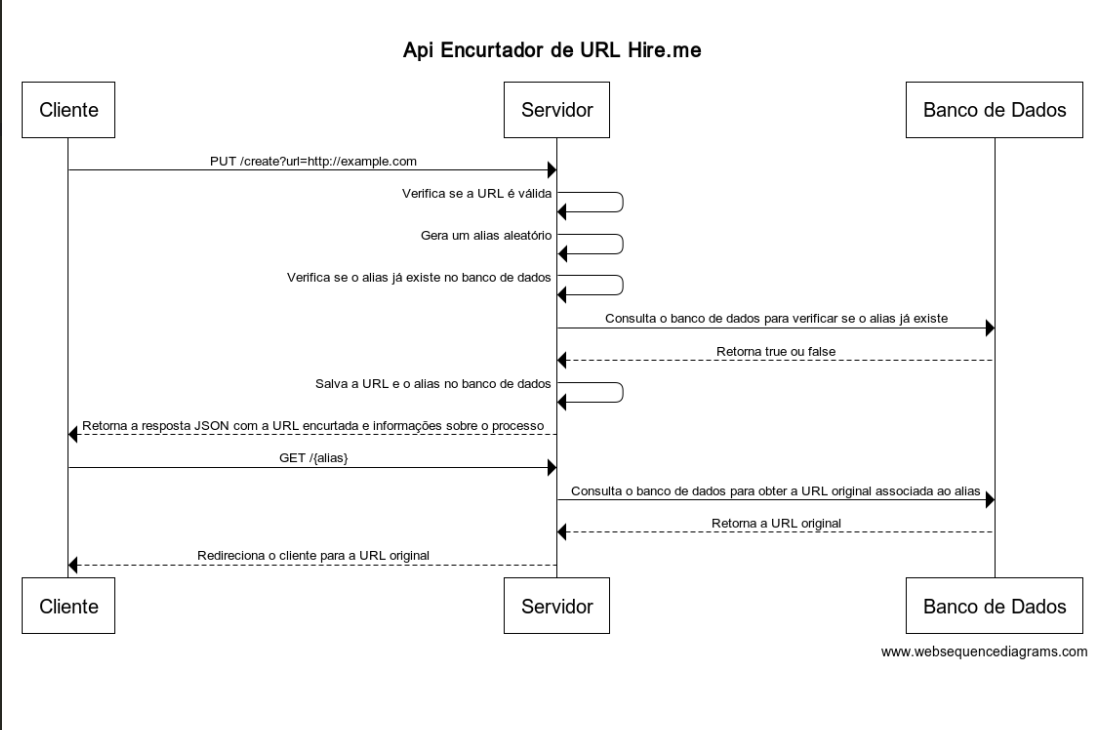
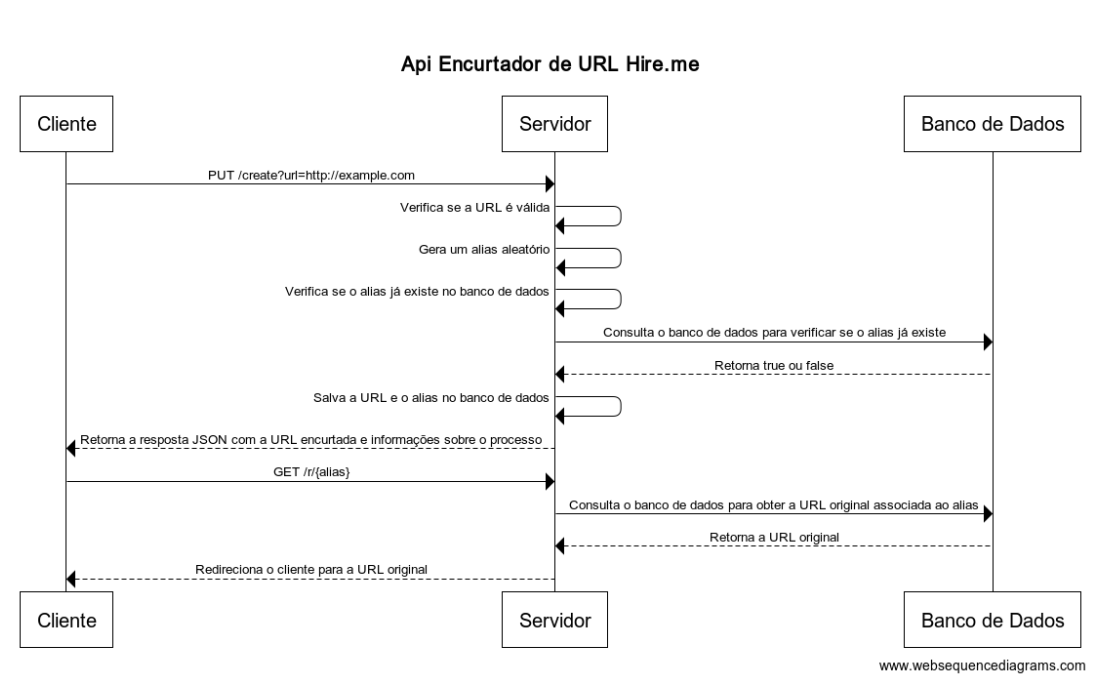
Endpoint de mais acessados

diff --git a/controllers/shorter/main.go b/controllers/shorter/main.go
@@ -11,12 +11,14 @@ import (
 
 	"go.mongodb.org/mongo-driver/bson"
 	"go.mongodb.org/mongo-driver/mongo"
+	"go.mongodb.org/mongo-driver/mongo/options"
 )
 
 // Struct para registrar as informações de URL e alias
 type Register struct {
-	Alias string `json:"alias"`
-	URL   string `json:"url"`
+	Alias   string `json:"alias"`
+	URL     string `json:"url"`
+	Acessos int    `json:"acessos"`
 }
 
 // Struct para registrar o tempo gasto na rotina
@@ -89,8 +91,9 @@ func GenerateShortURL(url, customAlias string, client *mongo.Client) ([]byte, er
 
 	// Registra a URL e o alias no banco de dados
 	register := Register{
-		Alias: alias,
-		URL:   url,
+		Alias:   alias,
+		URL:     url,
+		Acessos: 0,
 	}
 
 	if err := saveRegister(register, client); err != nil {
@@ -151,10 +154,50 @@ func RetrieveUrl(shortURL string, client *mongo.Client) ([]byte, error) {
 		return json.Marshal(errResp)
 	}
 
+	// Atualiza o valor de acessos e salva a alteração no banco de dados
+	result.Acessos++
+	update := bson.M{"$set": bson.M{"acessos": result.Acessos}}
+	_, err = collection.UpdateOne(context.Background(), filter, update)
+	if err != nil {
+		errResp := ErrorResponse{
+			Alias:       shortURL,
+			ErrCode:     "002",
+			Description: "FAILED TO UPDATE SHORTENED URL IN DATABASE",
+		}
+		return json.Marshal(errResp)
+	}
+
 	return json.Marshal(result)
 }
-
 func isValidURL(urlStr string) bool {
 	u, err := url.Parse(urlStr)
 	return err == nil && u.Scheme != "" && u.Host != ""
+}
+func TopAccess(client *mongo.Client) ([]byte, error) {
+	// Busca os registros no banco de dados, ordenando por acessos em ordem decrescente e limitando a 10
+	collection := client.Database("mydb").Collection("shorter")
+	options := options.Find().SetSort(bson.M{"acessos": -1}).SetLimit(10)
+	cursor, err := collection.Find(context.Background(), bson.M{}, options)
+	if err != nil {
+		errResp := ErrorResponse{
+			Alias:       "",
+			ErrCode:     "004",
+			Description: "DATABASE ERROR: FAILED TO RETRIEVE TOP 10 REGISTERS FROM DATABASE",
+		}
+		return json.Marshal(errResp)
+	}
+	defer cursor.Close(context.Background())
+
+	// Cria um slice com os resultados da busca
+	var results []Register
+	if err = cursor.All(context.Background(), &results); err != nil {
+		errResp := ErrorResponse{
+			Alias:       "",
+			ErrCode:     "004",
+			Description: "DATABASE ERROR: FAILED TO RETRIEVE TOP 10 REGISTERS FROM DATABASE",
+		}
+		return json.Marshal(errResp)
+	}
+
+	return json.Marshal(results)
 }

diff --git a/main.go b/main.go
@@ -6,7 +6,6 @@ import (
 	"log"
 	"net/http"
 
-	"github.com/gorilla/handlers"
 	"github.com/gorilla/mux"
 	"github.com/victorbcls/hire.me/controllers/db"
 	"github.com/victorbcls/hire.me/controllers/shorter"
@@ -25,15 +24,9 @@ func main() {
 	router := mux.NewRouter()
 
 	router.HandleFunc("/create", createHandler).Methods(http.MethodPut)
-	router.HandleFunc("/{alias}", retrieveHandler).Methods(http.MethodGet)
-
-	c := handlers.AllowedOrigins([]string{"*"})
-
-	router.HandleFunc("/create", createHandler).Methods(http.MethodPut)
-	router.HandleFunc("/{alias}", retrieveHandler).Methods(http.MethodGet)
-
-	err = http.ListenAndServe(":8080", handlers.CORS(c)(router))
-
+	router.HandleFunc("/r/{alias}", retrieveHandler).Methods(http.MethodGet)
+	router.HandleFunc("/mais_acessados", acessosHandler).Methods(http.MethodGet)
+	err = http.ListenAndServe(":8080", router)
 	if err != nil {
 		log.Fatalf("Erro ao iniciar o servidor HTTP: %v", err)
 	}
@@ -77,6 +70,17 @@ func retrieveHandler(w http.ResponseWriter, r *http.Request) {
 		w.Header().Set("Content-Type", "application/json")
 		w.Write(responseJson)
 	}
+
+}
+
+func acessosHandler(w http.ResponseWriter, r *http.Request) {
+	responseJson, err := shorter.TopAccess(_client)
+	if err != nil {
+		http.Error(w, toJSONError(err), http.StatusInternalServerError)
+		return
+	}
+	w.Header().Set("Content-Type", "application/json")
+	w.Write(responseJson)
 
 }
 

diff --git a/README.md b/README.md
@@ -43,7 +43,7 @@ PUT http://localhost:8080/create?url=https://youtube.com&CUSTOM_ALIAS=yt
 
 ### /{alias}
 
-O endpoint /{alias} é utilizado para acessar a URL original associada a um alias.
+O endpoint /r/{alias} é utilizado para acessar a URL original associada a um alias.
 
 Parâmetros
 
@@ -52,7 +52,7 @@ Parâmetros
 ### Exemplo
 
 ```bash
-GET http://localhost:8080/yt
+GET http://localhost:8080/r/yt
 
 ```
 
@@ -66,4 +66,32 @@ Caso a URL esteja registrada no banco, automaticamente será redirecionado ao si
   "err_code": "002",
   "description": "SHORTENED URL NOT FOUND IN DATABASE"
 }
+```
+
+### /mais_acessadas
+
+O endpoint /mais_acessadas é utilizado para vizualizar as 10 Urls mais acessadas
+
+### Exemplo
+
+```bash
+GET http://localhost:8080/mais_acessadas
+
+```
+
+### Resposta
+
+```json
+[
+  { "alias": "Facebook", "url": "https://www.facebook.com", "acessos": 1000 },
+  { "alias": "Google", "url": "https://www.google.com", "acessos": 750 },
+  { "alias": "YouTube", "url": "https://www.youtube.com", "acessos": 500 },
+  { "alias": "Twitter", "url": "https://www.twitter.com", "acessos": 400 },
+  { "alias": "Instagram", "url": "https://www.instagram.com", "acessos": 350 },
+  { "alias": "LinkedIn", "url": "https://www.linkedin.com", "acessos": 250 },
+  { "alias": "Amazon", "url": "https://www.amazon.com", "acessos": 200 },
+  { "alias": "Wikipedia", "url": "https://www.wikipedia.org", "acessos": 150 },
+  { "alias": "Reddit", "url": "https://www.reddit.com", "acessos": 100 },
+  { "alias": "Netflix", "url": "https://www.netflix.com", "acessos": 50 }
+]
 ```
